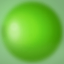
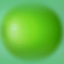
New pipe env map

diff --git a/src/flapGame/flapGame/Render.cpp b/src/flapGame/flapGame/Render.cpp
@@ -185,9 +185,10 @@ void Pipe::draw(const Obstacle::DrawParams& params) const {
 
     for (const DrawMesh* dm : a->pipe) {
         a->pipeShader->draw(params.cameraToViewport, params.worldToCamera * this->pipeToWorld,
-                           Float2{0.035f, 0.035f}, dm, a->pipeEnvTexture.id);
+                           Float2{0.035f, 0.025f}, dm, a->pipeEnvTexture.id);
     }
 }
+
 
 void drawTitle(const TitleScreen* titleScreen) {
     const Assets* a = Assets::instance;
